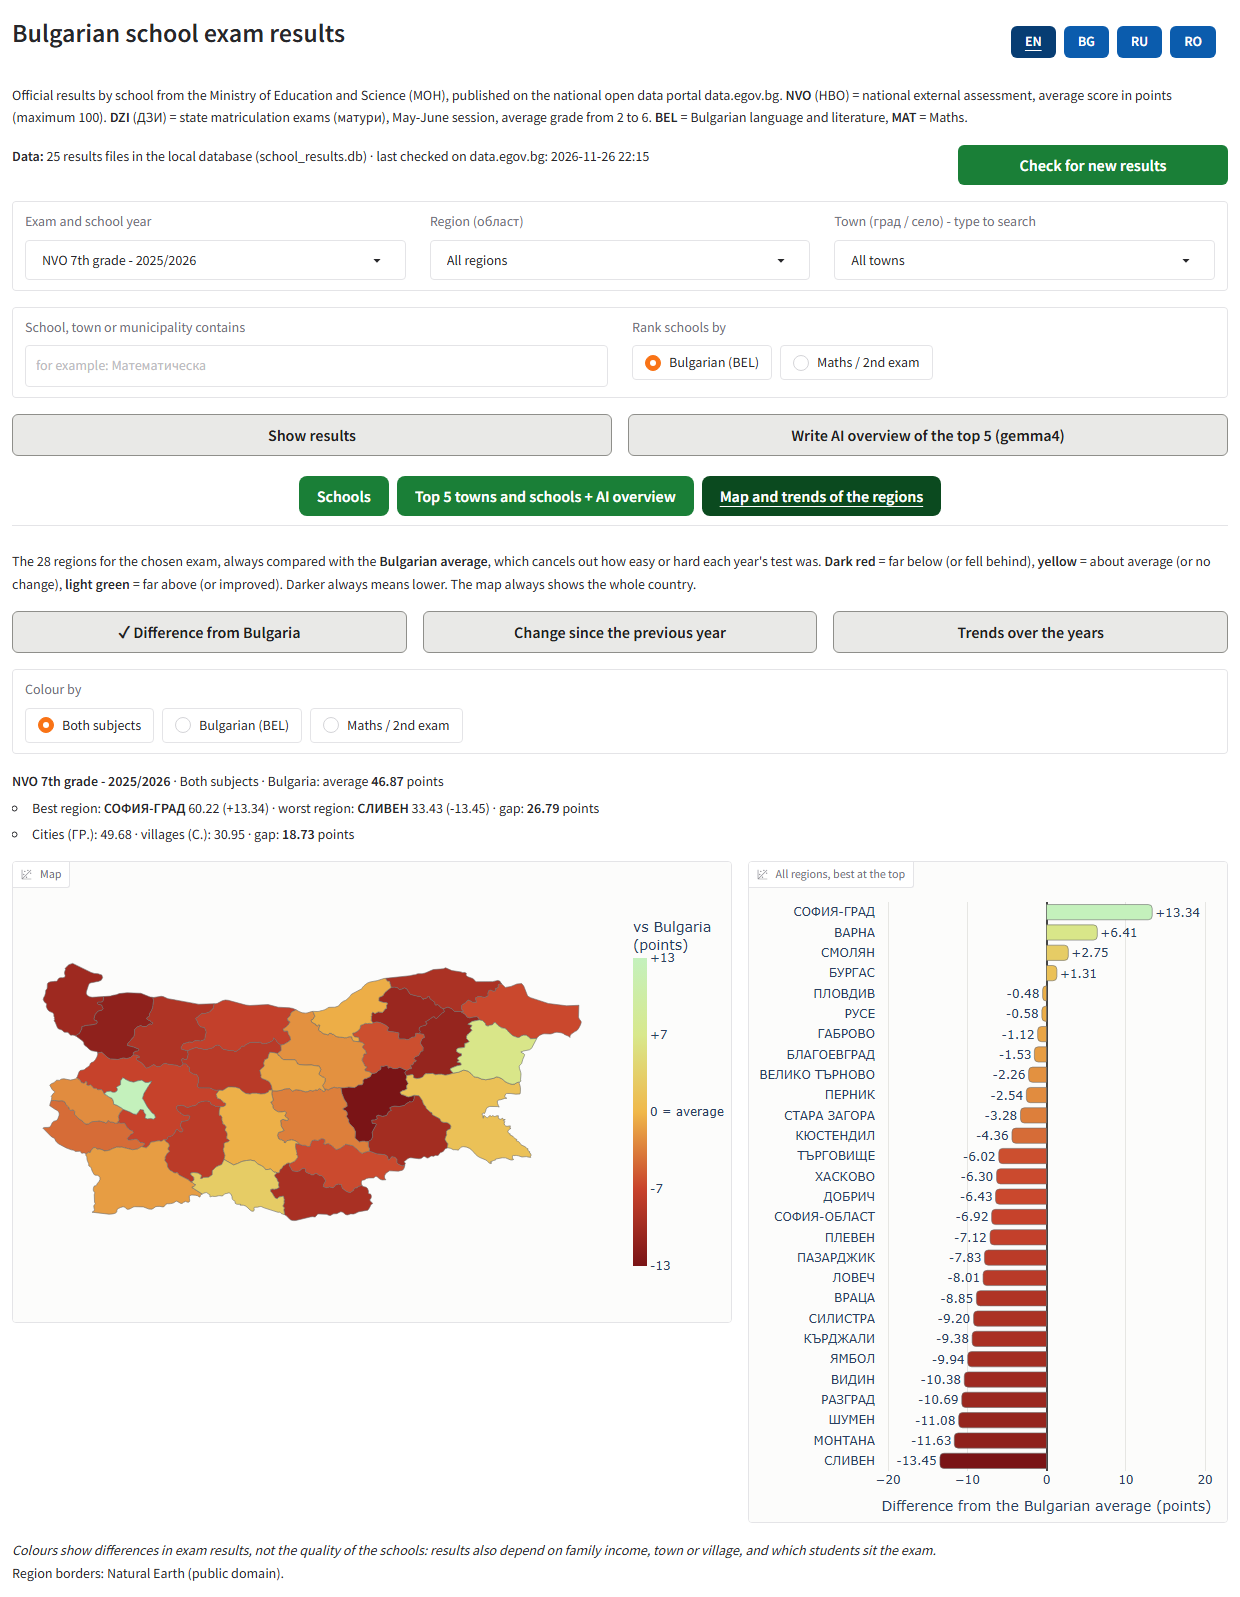
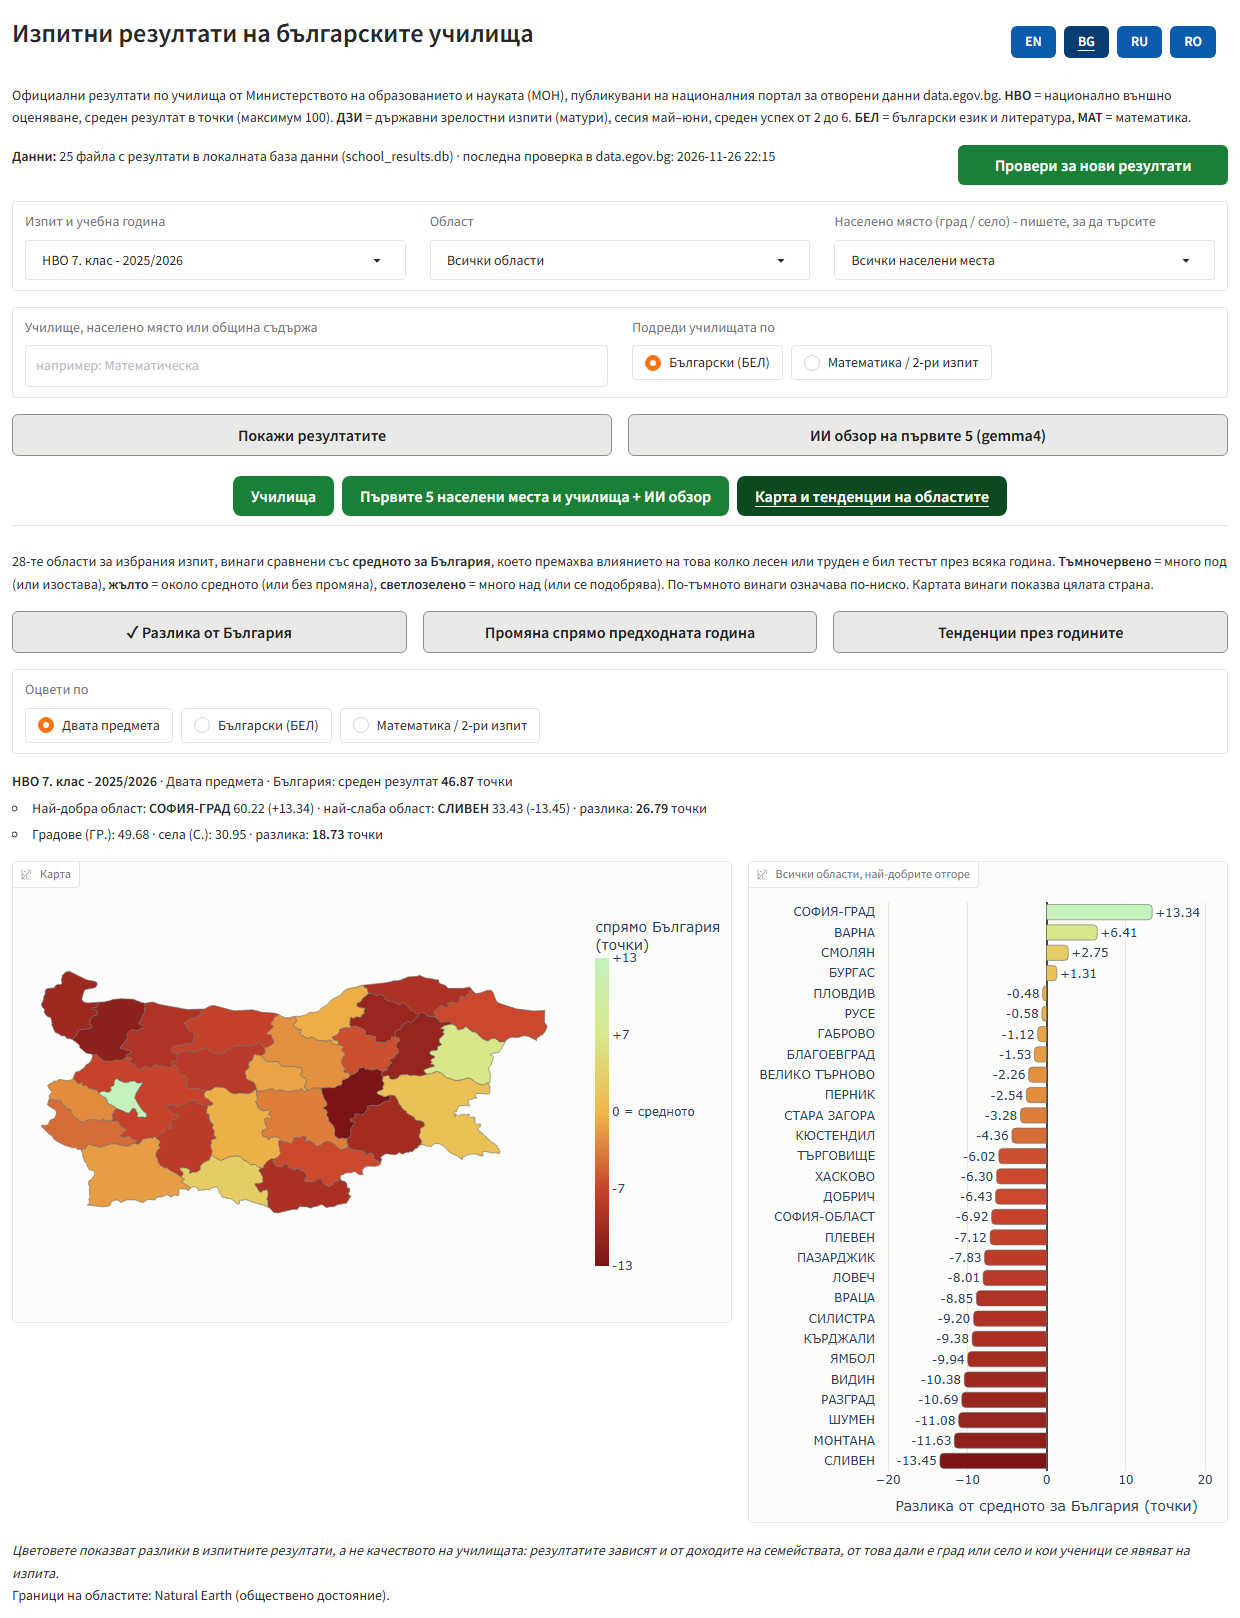
Show the Bulgarian page in the README screenshots

diff --git a/README.md b/README.md
@@ -18,9 +18,9 @@ A learning project in Python, written to be easy to read:
   [Bulgarian](Explanations/explanation_bulgarian.md), [Russian](Explanations/explanation_russian.md)
   and [Romanian](Explanations/explanation_romanian.md).
 
-![The map of the regions: 28 regions coloured from dark red (far below the national average) to light green (far above), next to a bar chart of all regions](screenshot_map.png)
+![The Bulgarian page, map of the regions: 28 regions coloured from dark red (far below the national average) to light green (far above), next to a bar chart of all regions](screenshot_map.png)
 
-![Trends over the years: a grid of the 28 regions by school year, coloured by each region's distance from the national average, next to a line chart of the gap between the best and the worst region](screenshot_trends.png)
+![The Bulgarian page, trends over the years: a grid of the 28 regions by school year, coloured by each region's distance from the national average, next to a line chart of the gap between the best and the worst region](screenshot_trends.png)
 
 ## What it shows
 
@@ -134,7 +134,7 @@ file is ever missing, the app rebuilds it the first time it starts, which takes 
 | [translations.py](translations.py) | Every text on the page, in English, Bulgarian, Russian and Romanian. Change a text here, in all 4 languages |
 | [school_results.db](school_results.db) | The database with every results file: the app reads only this. You can open it with any SQLite tool, such as the free [DB Browser for SQLite](https://sqlitebrowser.org) |
 | [bulgaria_regions.geojson](bulgaria_regions.geojson) | The borders of the 28 regions, for the map (Natural Earth, Bulgaria only) |
-| [screenshot_map.png](screenshot_map.png), [screenshot_trends.png](screenshot_trends.png) | The pictures of the map tab at the top of this page |
+| [screenshot_map.png](screenshot_map.png), [screenshot_trends.png](screenshot_trends.png) | The pictures of the map tab (Bulgarian page) at the top of this page |
 | [requirements.txt](requirements.txt) | The Python packages the app needs |
 | [schools/](schools/) | A snapshot from 17 November 2026: one CSV file per school (2,379 schools), plus the index [_all_schools.csv](schools/_all_schools.csv). The database is the copy that gets updated |
 | [info.md](info.md) | Research notes: where the data is, how the portal's API works, the data's quirks, and the findings |
